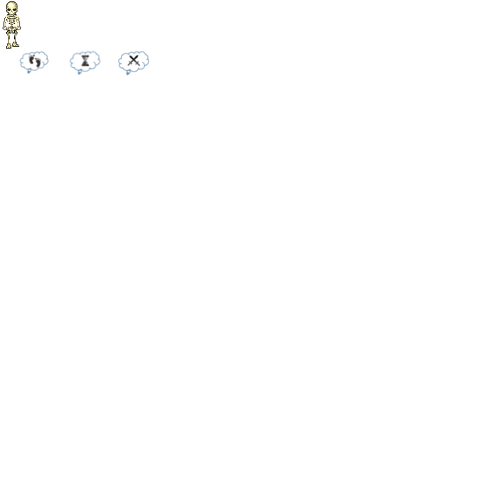
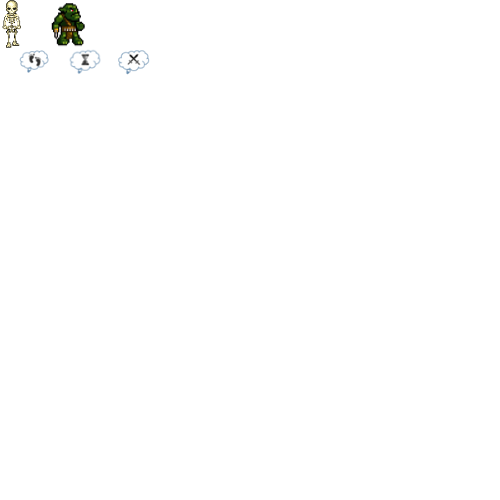
Added idle mission, a new enemy type, and prepared code for points of interest

Changed region(s): [[0.09, 0.0, 0.21, 0.15], [0.0, 0.0, 0.09, 0.15], [0.24, 0.09, 0.3, 0.15]]

diff --git a/Divine Right/DivineRightGame/LocalMapGenerator/DungeonGenerator.cs b/Divine Right/DivineRightGame/LocalMapGenerator/DungeonGenerator.cs
@@ -27,9 +27,10 @@ namespace DivineRightGame.LocalMapGenerator
         /// </summary>
         /// <param name="tiers"></param>
         /// <returns></returns>
-        public MapBlock[,] GenerateDungeon(int tiers, int trapRooms, int guardRooms, int treasureRooms, out MapCoordinate startPoint,out Actor[] enemyArray)
+        public MapBlock[,] GenerateDungeon(int tiers, int trapRooms, int guardRooms, int treasureRooms, out MapCoordinate startPoint,out Actor[] enemyArray,out List<PointOfInterest> pointsOfInterest)
         {
             startPoint = new MapCoordinate(0, 0, 0, MapTypeEnum.LOCAL);
+            pointsOfInterest = new List<PointOfInterest>();
 
             List<Actor> enemies = new List<Actor>();
             List<DungeonRoom> rooms = new List<DungeonRoom>();
@@ -226,12 +227,41 @@ namespace DivineRightGame.LocalMapGenerator
 
                 gennedMap = gen.GenerateMap(25, null, maplet, true);
 
+                if (room.DungeonRoomType == DungeonRoomType.GUARD_ROOM || room.DungeonRoomType == DungeonRoomType.TREASURE_ROOM)
+                {
+                    //This will be a point of interest. Select a random walkable point in the room and mark the place as such
+                    for (int tryAmount = 0; tryAmount < 50; tryAmount++)
+                    {
+                        //Try for a maximum of 50 times
+                        int x = random.Next(gennedMap.GetLength(0));
+                        int y = random.Next(gennedMap.GetLength(1));
+
+                        if (gennedMap[x, y].Tile.MayContainItems)
+                        {
+                            //Put this as the point
+                            PointOfInterest interest = new PointOfInterest();
+                            interest.Coordinate = new MapCoordinate(x, y, 0, MapTypeEnum.LOCAL);
+
+                            if (room.DungeonRoomType == DungeonRoomType.GUARD_ROOM)
+                            {
+                                interest.Type = PointOfInterestType.GUARD_ROOM;
+                            }
+                            else if (room.DungeonRoomType == DungeonRoomType.TREASURE_ROOM)
+                            {
+                                interest.Type = PointOfInterestType.TREASURE;
+                            }
+
+                            pointsOfInterest.Add(interest);
+
+                        }
+                    }
+                }
 
                 Actor[] roomEnemies = new Actor[]{};
                 if (room.DungeonRoomType == DungeonRoomType.GUARD_ROOM)
                 {
                     //Create 3 enemies
-                    gennedMap = gen.GenerateEnemies(gennedMap, 3, "skeleton",out roomEnemies);
+                    gennedMap = gen.GenerateEnemies(gennedMap, 5, "orc",out roomEnemies);
 
                     enemies.AddRange(roomEnemies);
                 }

diff --git a/Divine Right/DivineRightGame/LocalMap.cs b/Divine Right/DivineRightGame/LocalMap.cs
@@ -7,6 +7,7 @@ using DRObjects.Items.Archetypes.Local;
 using DRObjects.Enums;
 using DRObjects.ActorHandling.ActorMissions;
 using DivineRightGame.Pathfinding;
+using DRObjects.LocalMapGeneratorObjects;
 
 namespace DivineRightGame
 {
@@ -31,7 +32,7 @@ namespace DivineRightGame
             get { return actors; }
             set { actors = value; }
         }
-
+        public List<PointOfInterest> PointsOfInterest { get; set; }
         public Byte[,] PathfindingMap { get; set; }
         #endregion
 
@@ -241,7 +242,22 @@ namespace DivineRightGame
                     actor.HasActedLastTurn = true;
                 }
 
-                if (actor.CurrentMission.MissionType == DRObjects.ActorHandling.ActorMissionType.PATROL)
+                if (actor.CurrentMission.MissionType == DRObjects.ActorHandling.ActorMissionType.IDLE)
+                {
+                    if (Math.Abs(actor.MapCharacter.Coordinate - playerLocation) < actor.LineOfSight)
+                    {
+                        //He's there. Push the current mission into the stack and follow him
+                        actor.MissionStack.Push(actor.CurrentMission);
+                        actor.CurrentMission = new HuntDownMission()
+                        {
+                            Target = actors.Where(a => a.IsPlayerCharacter).FirstOrDefault(),
+                            TargetCoordinate = actors.Where(a => a.IsPlayerCharacter).FirstOrDefault().MapCharacter.Coordinate
+                        };
+
+                        continue;
+                    }
+                }
+                else if (actor.CurrentMission.MissionType == DRObjects.ActorHandling.ActorMissionType.PATROL)
                 {
                     PatrolMission mission = actor.CurrentMission as PatrolMission;
 

diff --git a/Divine Right/DivineRightGame/LocalMapGenerator/LocalMapGenerator.cs b/Divine Right/DivineRightGame/LocalMapGenerator/LocalMapGenerator.cs
@@ -628,11 +628,22 @@ namespace DivineRightGame.LocalMapGenerator
 
                     blocks[x,y].ForcePutItemOnBlock(enemyObject);
 
-                    PatrolMission mission = new PatrolMission();
-                    mission.PatrolPoint = new MapCoordinate(x, y, 0, MapTypeEnum.LOCAL);
-                    mission.PatrolRange = 5;
+                    if (random.Next(2) == 0)
+                    {
+                        //50% of them will Patrol - the rest will idle
+                        PatrolMission mission = new PatrolMission();
+                        mission.PatrolPoint = new MapCoordinate(x, y, 0, MapTypeEnum.LOCAL);
+                        mission.PatrolRange = 5;
 
-                    actor.MissionStack.Push(mission);
+                        actor.MissionStack.Push(mission);
+                    }
+                    else
+                    {
+                        IdleMission mission = new IdleMission();
+                        actor.MissionStack.Push(mission);
+                    }
+
+                    
                     
                     failureCount = 0;//reset
                 }

diff --git a/Divine Right/Objects/Graphics/SpriteManager.cs b/Divine Right/Objects/Graphics/SpriteManager.cs
@@ -386,6 +386,7 @@ namespace DRObjects.Graphics
             localSprites[(int)LocalSpriteName.SPIKES] = new SpriteData(DUNGEON, new Rectangle(450, 200, 50, 50));
 
             localSprites[(int)LocalSpriteName.ENEMY_SKELETON] = new SpriteData(ENEMIES, new Rectangle(0, 0, 50, 50));
+            localSprites[(int)LocalSpriteName.ENEMY_ORC] = new SpriteData(ENEMIES, new Rectangle(50, 0, 50, 50));
             localSprites[(int)LocalSpriteName.ENEMY_THOUGHT_WALK] = new SpriteData(ENEMIES, new Rectangle(0, 50, 50, 50));
             localSprites[(int)LocalSpriteName.ENEMY_THOUGHT_WAIT] = new SpriteData(ENEMIES, new Rectangle(50, 50, 50, 50));
             localSprites[(int)LocalSpriteName.ENEMY_THOUGHT_ATTACK] = new SpriteData(ENEMIES, new Rectangle(100, 50, 50, 50));

diff --git a/Divine Right/Divine Right/Divine Right/HelperFunctions/TestFunctions.cs b/Divine Right/Divine Right/Divine Right/HelperFunctions/TestFunctions.cs
@@ -44,9 +44,12 @@ namespace Divine_Right.HelperFunctions
             DungeonGenerator gen = new DungeonGenerator();
             MapCoordinate start = null;
             Actor[] actors = null;
-            MapBlock[,] generatedMap = gen.GenerateDungeon(5, 2, 2, 2,out start,out actors);
+            List<PointOfInterest> pointsOfInterest = null;
+
+            MapBlock[,] generatedMap = gen.GenerateDungeon(5, 2, 2, 2,out start,out actors,out pointsOfInterest);
 
             GameState.LocalMap = new LocalMap(500, 500, 1, 0);
+            GameState.LocalMap.PointsOfInterest = pointsOfInterest;
 
             List<MapBlock> collapsedMap = new List<MapBlock>();
 

diff --git a/Divine Right/Objects/LocalMapGeneratorObjects/PointOfInterest.cs b/Divine Right/Objects/LocalMapGeneratorObjects/PointOfInterest.cs
@@ -1,0 +1,17 @@
+using System;
+using System.Collections.Generic;
+using System.Linq;
+using System.Text;
+using DRObjects.Enums;
+
+namespace DRObjects.LocalMapGeneratorObjects
+{
+    /// <summary>
+    /// Describes a point of interest on the local map
+    /// </summary>
+    public class PointOfInterest
+    {
+        public MapCoordinate Coordinate { get; set; }
+        public PointOfInterestType Type { get; set; }
+    }
+}

diff --git a/Divine Right/Objects/Enums/PointOfInterestType.cs b/Divine Right/Objects/Enums/PointOfInterestType.cs
@@ -1,0 +1,16 @@
+using System;
+using System.Collections.Generic;
+using System.Linq;
+using System.Text;
+
+namespace DRObjects.Enums
+{
+    /// <summary>
+    /// The type of the Point of Interest
+    /// </summary>
+    public enum PointOfInterestType
+    {
+        GUARD_ROOM,
+        TREASURE,
+    }
+}

diff --git a/Divine Right/Objects/Graphics/LocalSpriteName.cs b/Divine Right/Objects/Graphics/LocalSpriteName.cs
@@ -333,6 +333,9 @@ namespace DRObjects.Graphics
         
         //ENEMIES
         ENEMY_SKELETON,
+        ENEMY_ORC,
+
+        //ENEMY THOUGHTS
         ENEMY_THOUGHT_WALK,
         ENEMY_THOUGHT_WAIT,
         ENEMY_THOUGHT_ATTACK,
